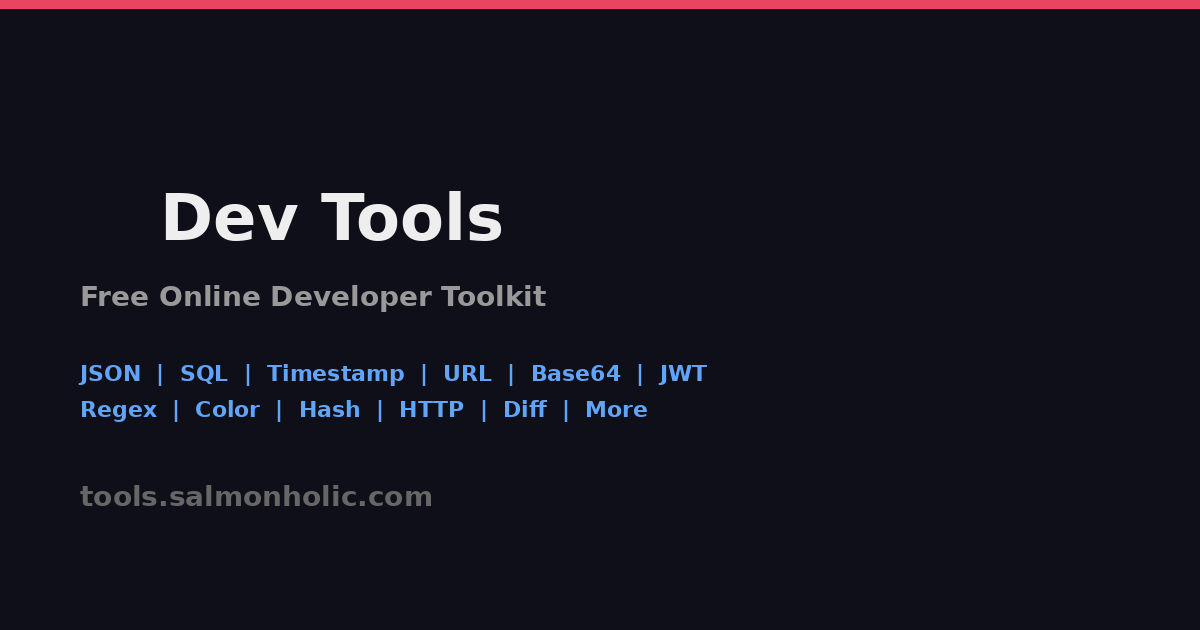
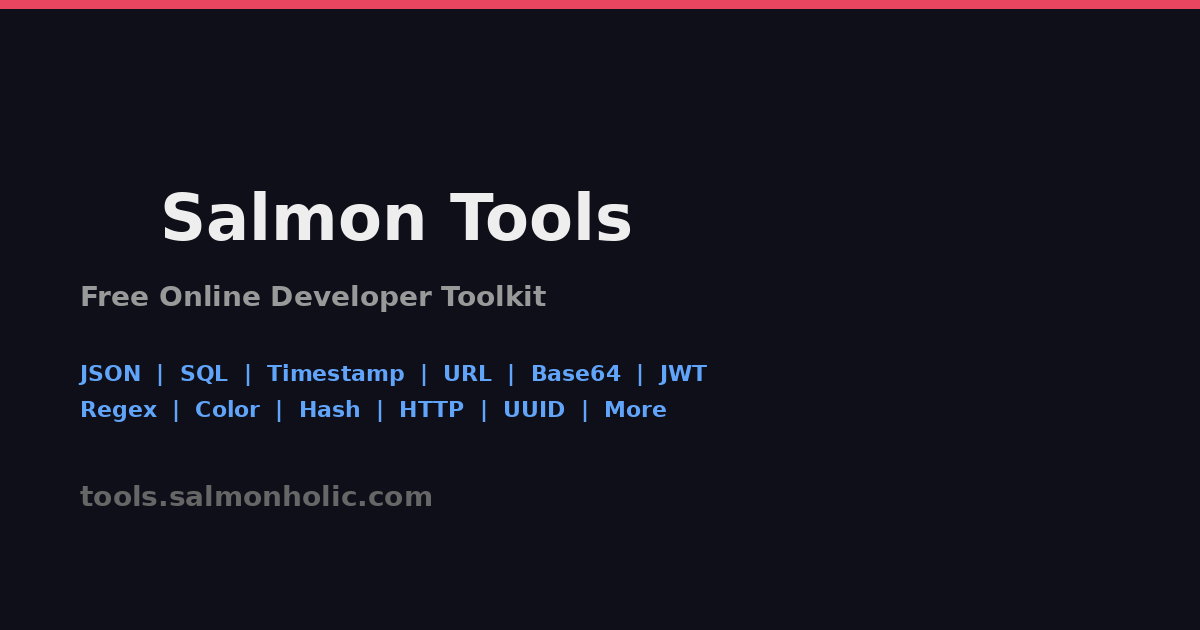
Rename to Salmon Tools

Changed region(s): [[0.1233, 0.3016, 0.5242, 0.3921], [0.4317, 0.6333, 0.555, 0.6635]]

diff --git a/index.html b/index.html
@@ -3,10 +3,10 @@
 <head>
 <meta charset="UTF-8">
 <meta name="viewport" content="width=device-width, initial-scale=1.0">
-<title>Dev Tools — Free Online Developer Toolkit</title>
+<title>Salmon Tools — Free Online Developer Toolkit</title>
 <meta name="description" content="Free online developer tools: JSON formatter & validator, Unix timestamp converter, URL encoder/decoder, Base64, JWT decoder, regex tester, SQL formatter, color converter, hash generator, HTTP client, redirect tracer, and more. No signup required.">
 <meta name="keywords" content="JSON formatter, JSON beautifier, timestamp converter, URL encoder, URL decoder, Base64 encoder, JWT decoder, regex tester, SQL formatter, color converter, hash generator, SHA256, HTTP client, redirect checker, UUID generator, GAID generator, IDFA generator, advertising ID, developer tools, online tools, web tools, free tools">
-<meta name="author" content="Dev Tools">
+<meta name="author" content="Salmon Tools">
 <meta name="robots" content="index, follow">
 <script async src="https://pagead2.googlesyndication.com/pagead/js/adsbygoogle.js?client=ca-pub-9910139662531641" crossorigin="anonymous"></script>
 <link rel="canonical" href="https://tools.salmonholic.com/">
@@ -16,20 +16,20 @@
 <link rel="icon" type="image/png" sizes="32x32" href="/favicon-32x32.png">
 
 <!-- Open Graph -->
-<meta property="og:title" content="Dev Tools — Free Online Developer Toolkit">
+<meta property="og:title" content="Salmon Tools — Free Online Developer Toolkit">
 <meta property="og:description" content="16+ free developer tools in one page. JSON, timestamp, URL, Base64, JWT, regex, SQL, color, hash, HTTP client and more.">
 <meta property="og:type" content="website">
 <meta property="og:url" content="https://tools.salmonholic.com/">
 <meta property="og:locale" content="en_US">
-<meta property="og:site_name" content="Dev Tools">
+<meta property="og:site_name" content="Salmon Tools">
 <meta property="og:image" content="https://tools.salmonholic.com/og-image.png">
 <meta property="og:image:width" content="1200">
 <meta property="og:image:height" content="630">
-<meta property="og:image:alt" content="Dev Tools — 16+ Free Online Developer Tools">
+<meta property="og:image:alt" content="Salmon Tools — 16+ Free Online Developer Tools">
 
 <!-- Twitter -->
 <meta name="twitter:card" content="summary_large_image">
-<meta name="twitter:title" content="Dev Tools — Free Online Developer Toolkit">
+<meta name="twitter:title" content="Salmon Tools — Free Online Developer Toolkit">
 <meta name="twitter:image" content="https://tools.salmonholic.com/og-image.png">
 <meta name="twitter:description" content="16+ free developer tools in one page. No signup required. JSON, timestamp, Base64, JWT, regex, SQL and more.">
 
@@ -38,7 +38,7 @@
 {
   "@context": "https://schema.org",
   "@type": "WebApplication",
-  "name": "Dev Tools",
+  "name": "Salmon Tools",
   "description": "Free online developer toolkit with 16+ tools including JSON formatter, timestamp converter, URL encoder, Base64, JWT decoder, regex tester, SQL formatter, and more.",
   "url": "https://tools.salmonholic.com/",
   "applicationCategory": "DeveloperApplication",
@@ -343,7 +343,7 @@
 
 <nav class="sidebar">
   <div class="sidebar-header">
-    <h1>🛠 Dev Tools</h1>
+    <h1>🛠 Salmon Tools</h1>
   </div>
   <div class="sidebar-nav">
     <div class="nav-group">
@@ -807,7 +807,7 @@ function switchTab(tabName) {
   if (history.replaceState) history.replaceState(null, '', '#' + tabName);
   // 페이지 타이틀 업데이트 (SEO + 탭 구분)
   const titles = {memo:'Memo',json:'JSON Formatter',sql:'SQL Formatter',timestamp:'Timestamp Converter',url:'URL Encoder/Decoder',base64:'Base64 Encoder/Decoder',escape:'Escape/Unescape',jwt:'JWT Decoder',hash:'Hash Generator',http:'HTTP Client',redirect:'Redirect Tracer',color:'Color Converter',regex:'Regex Tester',percent:'Percent Calculator',diff:'Text Diff',lorem:'Lorem Generator'};
-  document.title = (titles[tabName] || 'Dev Tools') + ' — Dev Tools';
+  document.title = (titles[tabName] || 'Salmon Tools') + ' — Salmon Tools';
 }
 
 document.querySelectorAll('.sidebar .tab[data-tab], .mobile-tabs .tab[data-tab]').forEach(tab => {
@@ -1614,7 +1614,7 @@ function uuidGenerate() {
 </script>
 <noscript>
 <div style="padding:2rem;color:#eee;background:#0f0f1a;">
-<h2>Dev Tools — Free Online Developer Toolkit</h2>
+<h2>Salmon Tools — Free Online Developer Toolkit</h2>
 <p>A collection of 16+ free developer tools that run entirely in your browser:</p>
 <ul>
 <li><strong>JSON Formatter & Validator</strong> — Beautify, minify, validate JSON and convert to TypeScript interfaces</li>
